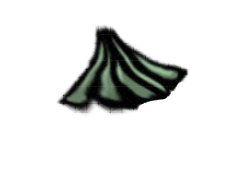
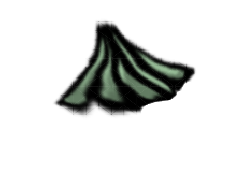
Clothing fitter: reusable fit recipes and quad-corner deformation; new tletingan/mashtzarr kasa fits
Fitter:
- Quad corners mode: four draggable corners of the fitted grid. A corner
  drag spreads its movement over the 6x6 offsets with bilinear falloff,
  stacking on the base transform and any node edits (undoable).
- Fit recipes: save the current base transform + 6x6 offsets as a named
  recipe, apply it to the current item (optionally switching to the
  recipe's starting/target species), or tick several items and export them
  all with the recipe in one ZIP (PNGs, updated configs, per-item manifests
  and the recipe). Recipes import/export as
  hobunji-clothing-fit-recipe-v1 JSON, are kept in the browser, and a
  repository library (docs/config/clothing-fit-recipes/index.json) loads
  automatically.
- The fitted-layer ZIP builder is split out of exportFittedGarment so the
  single and batch exports share it.

Kasas: tletingan male (1.075x, -5.75px) and mashtzarr male (1.35x,
-3.25/+31.25px) from the author's latest fitter export, applied to the
mao-ao art of the old highlands kasa and riverlands tight/low/wide.

Claude-Session: https://claude.ai/code/session_01XRZE2sVSA4jEZ2bpX92Ess

Changed region(s): [[0.2094, 0.1156, 0.8376, 0.6647], [0.359, 0.5491, 0.3889, 0.578]]

diff --git a/docs/tools/clothing-species-fit/index.html b/docs/tools/clothing-species-fit/index.html
@@ -45,6 +45,7 @@
           <button data-mode="transform" class="active">Base transform</button>
           <button data-mode="body">Grid only</button>
           <button data-mode="fit">Species fit</button>
+          <button data-mode="quad">Quad corners</button>
           <button data-mode="preview">Preview</button>
           <button data-mode="protect">Protect pixels</button>
           <button data-mode="headband">Band spline</button>
@@ -80,6 +81,21 @@
         <div class="field"><label for="translateY">Translate Y (px)</label><div class="row"><input id="translateY" type="range" min="-120" max="120" step="0.25" value="0"><input id="translateYNumber" type="number" min="-120" max="120" step="0.25" value="0" aria-label="Translate Y pixels"></div></div>
         <div class="row"><button id="resetTransform">Reset base transform</button></div>
         <div class="small">Saved separately for body and headwear per species+gender. In Base Transform mode, drag the canvas to reposition the selected art.</div>
+      </section>
+
+      <section id="recipeSection">
+        <h2>Fit recipes</h2>
+        <div class="small">A recipe is a saved base transform + 6×6 deformation. Apply it to the current item, or to several items at once (one ZIP). Library recipes come from <code>config/clothing-fit-recipes/</code>.</div>
+        <div class="field"><label for="recipeSelect">Recipe</label><select id="recipeSelect"></select></div>
+        <div id="recipeInfo" class="small" aria-live="polite">Loading recipes…</div>
+        <div class="row"><label class="small"><input id="recipeUseSpecies" type="checkbox" checked> switch to the recipe's starting/target species</label></div>
+        <div class="row"><button type="button" id="recipeApply">Apply to current item</button><button type="button" id="recipeDownload">Download recipe JSON</button></div>
+        <div class="field"><label>Apply to these items and export one ZIP</label><div id="recipeGarments" style="max-height:140px;overflow:auto;border:1px solid #334155;border-radius:6px;padding:4px"></div></div>
+        <div class="row"><button type="button" id="recipeBatch">Apply to ticked items &amp; export</button></div>
+        <div class="field"><label for="recipeName">Save current fit as recipe</label><input id="recipeName" placeholder="Recipe name"></div>
+        <div class="field"><label for="recipeDescription">Description (optional)</label><input id="recipeDescription" placeholder="What the recipe does"></div>
+        <div class="row"><button type="button" id="recipeSave">Save recipe</button><button type="button" id="recipeImport">Import recipe JSON</button><button type="button" id="recipeDelete">Delete saved</button><input id="recipeFile" type="file" accept=".json,application/json" hidden></div>
+        <div id="recipeStatus" class="small" aria-live="polite"></div>
       </section>
 
       <section>

diff --git a/scripts/test-clothing-fit-editor-layers.js b/scripts/test-clothing-fit-editor-layers.js
@@ -385,6 +385,35 @@ async function main() {
     gameLayers.map(layer => !/exposed_/.test(layer.url)),
     'Only base/trim are replaced by fitted rasters; exposed anatomy stays in its authored position');
 
+  // Quad corners: each corner's delta spreads with its bilinear weight over the 6x6 grid.
+  const grid36 = Array.from({length: 36}, (_, i) => ({x: (i % 6) / 5, y: Math.floor(i / 6) / 5}));
+  const quadApi = new Function('GRID_SIZE','SOURCE_GRID',
+    sourceBetween('const QUAD_CORNERS=', 'let quadDrag=null;') + '\nreturn {QUAD_CORNERS, applyQuadCornerDelta};')(6, grid36);
+  assert.deepEqual(quadApi.QUAD_CORNERS, [0, 5, 30, 35]);
+  const zero36 = grid36.map(() => ({x: 0, y: 0}));
+  const quadMoved = quadApi.applyQuadCornerDelta(zero36, 1, 0.1, -0.2);
+  assert.deepEqual(quadMoved[5], {x: 0.1, y: -0.2}, 'the dragged corner moves by the full delta');
+  assert.deepEqual(quadMoved[30], {x: 0, y: 0}, 'the opposite corner stays put');
+  assert(Math.abs(quadMoved[14].x - 0.1 * 0.4 * 0.6) < 1e-12, 'interior nodes follow with bilinear falloff');
+  const stacked = quadApi.applyQuadCornerDelta(quadMoved, 2, 0, 0.1);
+  assert.equal(stacked[5].x, 0.1, 'corner edits stack instead of resetting earlier deformation');
+
+  // Recipes: validation and application to the current fit key.
+  const recipeState = {baseTransforms: {}, localOffsets: {}};
+  const recipeApi = new Function('SOURCE_GRID','A','ensureTargetData','E',
+    sourceBetween('const RECIPE_FORMAT=', 'function recipeFromCurrentFit(') +
+    sourceBetween('function applyRecipeToCurrentFit(', 'function allRecipes(') + '\nreturn {validRecipe, applyRecipeToCurrentFit};')(
+    grid36, recipeState, () => 'headwear::mashtzarr_male', {species: {value: 'mashtzarr'}, gender: {value: 'male'}});
+  const recipe = {format: 'hobunji-clothing-fit-recipe-v1', name: 'r', id: 'r',
+    transform: {scaleX: 1.2, scaleY: 1.1, translateX: -2, translateY: 4}, offsets: quadMoved};
+  assert(recipeApi.validRecipe(recipe));
+  assert(!recipeApi.validRecipe({...recipe, offsets: quadMoved.slice(1)}), 'recipes must carry all 36 offsets');
+  assert(!recipeApi.validRecipe({...recipe, transform: {...recipe.transform, scaleX: 0}}), 'zero scale is rejected');
+  assert.equal(recipeApi.applyRecipeToCurrentFit(recipe), 'headwear::mashtzarr_male');
+  assert.deepEqual(recipeState.baseTransforms['headwear::mashtzarr_male'], recipe.transform);
+  assert.deepEqual(recipeState.localOffsets['headwear::mashtzarr_male'], quadMoved);
+  assert.notStrictEqual(recipeState.localOffsets['headwear::mashtzarr_male'], quadMoved, 'applied offsets are copies of the recipe');
+
   console.log('PASS clothing-fit source layers, installable ZIP filenames/config, patch composition, fallback rasters, fit keys and script syntax');
 }
 
